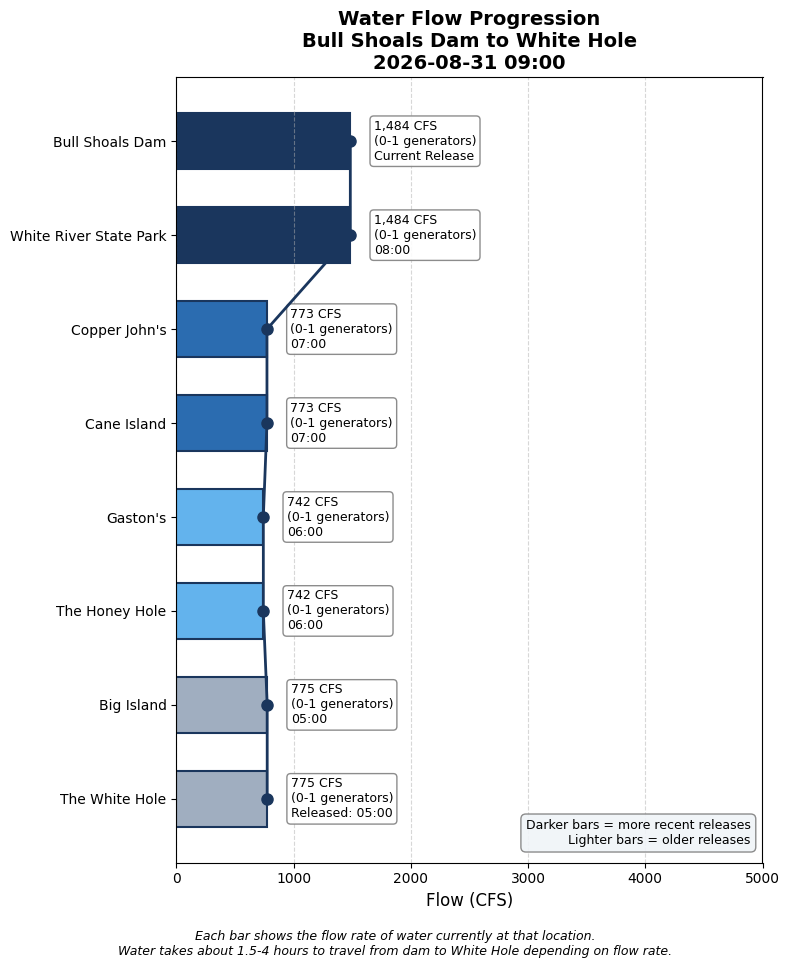
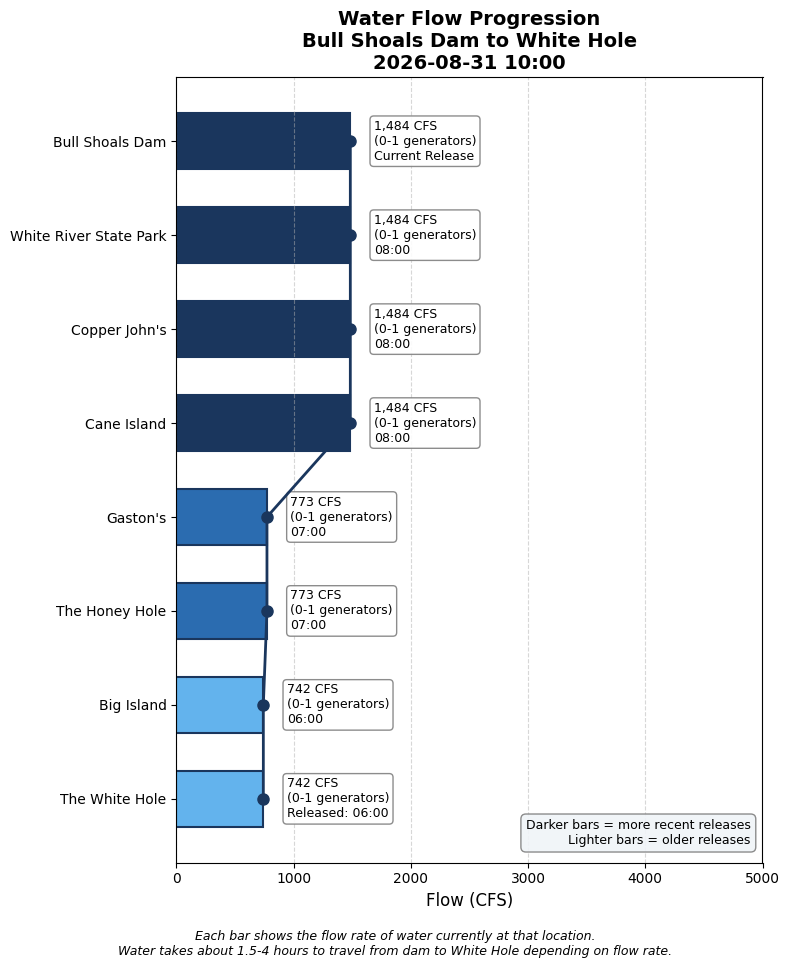
Update water conditions 2026-08-31 11:00

Changed region(s): [[0.2127, 0.2789, 0.6076, 0.8678], [0.638, 0.062, 0.6684, 0.093]]

diff --git a/white_hole_conditions.html b/white_hole_conditions.html
@@ -3,7 +3,7 @@
 <head>
     <meta charset="UTF-8">
     <meta name="viewport" content="width=device-width, initial-scale=1.0">
-    <title>White Hole Conditions - 2026-08-31 09:00</title>
+    <title>White Hole Conditions - 2026-08-31 10:00</title>
     <style>
         body {
             font-family: -apple-system, BlinkMacSystemFont, 'Segoe UI', Roboto, sans-serif;
@@ -148,8 +148,11 @@
 </head>
 <body>
     <h1>White Hole Current Conditions</h1>
-    <p class="subtitle">Monday, August 31, 2026 at 09:00 AM</p>
+    <p class="subtitle">Monday, August 31, 2026 at 10:00 AM</p>
 
+    <div style="background-color: #fee2e2; color: #991b1b; border: 1px solid #fca5a5; border-radius: 12px; padding: 15px 25px; margin-bottom: 20px; font-weight: 500;">
+        ⚠ LIVE DAM FEED UNAVAILABLE — Showing the last successfully retrieved readings. Conditions may have changed since.
+    </div>
 
     <!-- HEADLINE BANNER -->
     <div class="headline-banner">
@@ -161,7 +164,7 @@
     <!-- CURRENT CONDITIONS -->
     <div class="current-conditions">
         <h3>Current Conditions at White Hole</h3>
-        <div class="flow-display">775 CFS</div>
+        <div class="flow-display">742 CFS</div>
         <div class="generator-display">Equivalent to 0-1 generators</div>
         <div class="condition-pills">
             <span class="pill wading">Excellent Wading</span>
@@ -189,6 +192,14 @@
                     
                 <tr><td colspan="3" style="padding: 8px 10px; font-size: 0.8em; font-weight: bold; color: #6b46c1; text-transform: uppercase; letter-spacing: 0.05em; background-color: #f3e8ff;">Scheduled (SWPA forecast)</td></tr>
                 
+                    <tr style="background-color: #faf5ff; border-left: 4px solid #e53e3e;">
+                        <td style="padding: 10px; font-weight: bold;">1 PM</td>
+                        <td style="padding: 10px;">7,002 CFS<br><small style="color: #666;">(2-3 generators: 6752 generation + 250 min flow)</small></td>
+                        <td style="padding: 10px;">~3:45 PM
+                            <span style="display: inline-block; margin-left: 6px; padding: 2px 8px; border-radius: 12px; font-size: 0.8em; background-color: #fee2e2; color: #991b1b;">No Wading</span>
+                        </td>
+                    </tr>
+                
                     <tr style="background-color: #faf5ff; ">
                         <td style="padding: 10px; font-weight: bold;">12 PM</td>
                         <td style="padding: 10px;">750 CFS<br><small style="color: #666;">(0-1 generators: 473 generation + 277 min flow)</small></td>
@@ -213,14 +224,6 @@
                         </td>
                     </tr>
                 
-                    <tr style="background-color: #faf5ff; ">
-                        <td style="padding: 10px; font-weight: bold;">9 AM</td>
-                        <td style="padding: 10px;">750 CFS<br><small style="color: #666;">(0-1 generators: 473 generation + 277 min flow)</small></td>
-                        <td style="padding: 10px;">~12:44 PM
-                            <span style="display: inline-block; margin-left: 6px; padding: 2px 8px; border-radius: 12px; font-size: 0.8em; background-color: #d1fae5; color: #065f46;">Excellent Wading</span>
-                        </td>
-                    </tr>
-                
             
                     
                 <tr><td colspan="3" style="padding: 8px 10px; font-size: 0.8em; font-weight: bold; color: #2b6cb0; text-transform: uppercase; letter-spacing: 0.05em; background-color: #ebf8ff;">Actual (dam readings)</td></tr>
@@ -228,25 +231,25 @@
                     <tr style="background-color: #ebf8ff;">
                         <td style="padding: 10px; font-weight: bold;">8:00 AM</td>
                         <td style="padding: 10px;">1,484 CFS<br><small style="color: #666;">(0-1 generators)</small></td>
-                        <td style="padding: 10px;"><span style="color: #2b6cb0;">→ Arrives ~11:44 AM (in 163 min)</span></td>
+                        <td style="padding: 10px;"><span style="color: #2b6cb0;">→ Arrives ~11:44 AM (in 103 min)</span></td>
                     </tr>
                 
                     <tr style="background-color: #ebf8ff;">
                         <td style="padding: 10px; font-weight: bold;">7:00 AM</td>
                         <td style="padding: 10px;">773 CFS<br><small style="color: #666;">(0-1 generators)</small></td>
-                        <td style="padding: 10px;"><span style="color: #2b6cb0;">→ Arrives ~10:44 AM (in 103 min)</span></td>
-                    </tr>
-                
-                    <tr style="background-color: #ebf8ff;">
-                        <td style="padding: 10px; font-weight: bold;">6:00 AM</td>
-                        <td style="padding: 10px;">742 CFS<br><small style="color: #666;">(0-1 generators)</small></td>
-                        <td style="padding: 10px;"><span style="color: #2b6cb0;">→ Arrives ~9:44 AM (in 43 min)</span></td>
+                        <td style="padding: 10px;"><span style="color: #2b6cb0;">→ Arrives ~10:44 AM (in 43 min)</span></td>
                     </tr>
                 
                     <tr style="background-color: #e6fffa;">
-                        <td style="padding: 10px; font-weight: bold;">5:00 AM</td>
-                        <td style="padding: 10px;">775 CFS<br><small style="color: #666;">(0-1 generators)</small></td>
+                        <td style="padding: 10px; font-weight: bold;">6:00 AM</td>
+                        <td style="padding: 10px;">742 CFS<br><small style="color: #666;">(0-1 generators)</small></td>
                         <td style="padding: 10px;"><span style="color: #319795; font-weight: bold;">← AT WHITE HOLE NOW</span></td>
+                    </tr>
+                
+                    <tr style="">
+                        <td style="padding: 10px; font-weight: bold;">3:00 AM</td>
+                        <td style="padding: 10px;">767 CFS<br><small style="color: #666;">(0-1 generators)</small></td>
+                        <td style="padding: 10px;"><span style="color: #718096;">passed</span></td>
                     </tr>
                 
             
@@ -278,7 +281,7 @@
             <ul>
                 <li>Latest dam reading: 1,484 CFS at 2026-08-31 08:00</li>
                 <li>Travel time to White Hole: 3.7 hours at current flow</li>
-                <li>White Hole conditions based on dam reading from: 2026-08-31 05:00</li>
+                <li>White Hole conditions based on dam reading from: 2026-08-31 06:00</li>
             </ul>
         </div>
     </details>
@@ -370,13 +373,6 @@
                     <td style="padding: 8px; text-align: right;">3.7</td>
                 </tr>
                 
-                <tr style="border-bottom: 1px solid #eee;">
-                    <td style="padding: 8px;">2026-08-30 22:00</td>
-                    <td style="padding: 8px; text-align: right;">716</td>
-                    <td style="padding: 8px; text-align: right;">0.2</td>
-                    <td style="padding: 8px; text-align: right;">3.7</td>
-                </tr>
-                
                     </tbody>
                 </table>
             </div>
@@ -388,14 +384,14 @@
     <details class="timeline-box">
         <summary style="cursor: default; list-style: none;">
             <h3 style="display: inline;">🎣 Fishing Report — Gaston's to Cranor's Island</h3>
-            <span style="color: #666; margin-left: 8px;">Minimum flow (dead low) · 775 CFS</span>
+            <span style="color: #666; margin-left: 8px;">Minimum flow (dead low) · 742 CFS</span>
         </summary>
         <p style="color: #666; margin: 12px 0 4px;">Fall (September–October): pre-spawn browns</p>
         
         <p style="background-color: #ebf8ff; color: #2b6cb0; border-radius: 8px; padding: 8px 12px; margin: 10px 0; font-size: 0.9em;">
             Off-season preview — the next trip window is September–October. This is that window's playbook run against the current flow.</p>
         <p style="font-size: 1.1em; margin: 10px 0;"><strong>Minimum flow (dead low)</strong>
-            — 775 CFS at White Hole (0-1 generators)</p>
+            — 742 CFS at White Hole (0-1 generators)</p>
         <p style="color: #444;">The river is a giant spring creek. Gravel bars exposed; prop strikes are the boat risk and the White Hole ramp can be tricky to launch. Wading is wide open. Fish see everything — go light for rainbows, go dark (not light) for browns.</p>
         <p style="margin: 6px 0; font-size: 0.9em;"><a href="https://www.google.com/maps?q=36.347597191038865,-92.55540040484095" target="_blank" style="color: #2b6cb0;">📍 Gaston's</a> · <a href="https://www.google.com/maps?q=36.329897607316106,-92.53355649411128" target="_blank" style="color: #2b6cb0;">📍 White Hole</a> · <a href="https://www.google.com/maps?q=36.333492497534266,-92.56191314472997" target="_blank" style="color: #2b6cb0;">📍 Cranor's Island</a></p>
         <h4 style="color: #2c3e50; margin: 18px 0 6px;">Where to go</h4>
@@ -497,7 +493,7 @@
     </details>
 
     <div class="timestamp">
-        Data retrieved and processed on 2026-08-31 09:00:08 (Central time)<br>
+        Data retrieved and processed on 2026-08-31 10:00:27 (Central time)<br>
         Travel times are observational estimates (per <a href="https://www.hisplaceresort.net/white-river-info" target="_blank" style="color: #718096;">His Place Resort</a>) &mdash; always judge wading safety on-site.<br>
         &copy; 2026 Brian Carroll. All rights reserved.
     </div>
